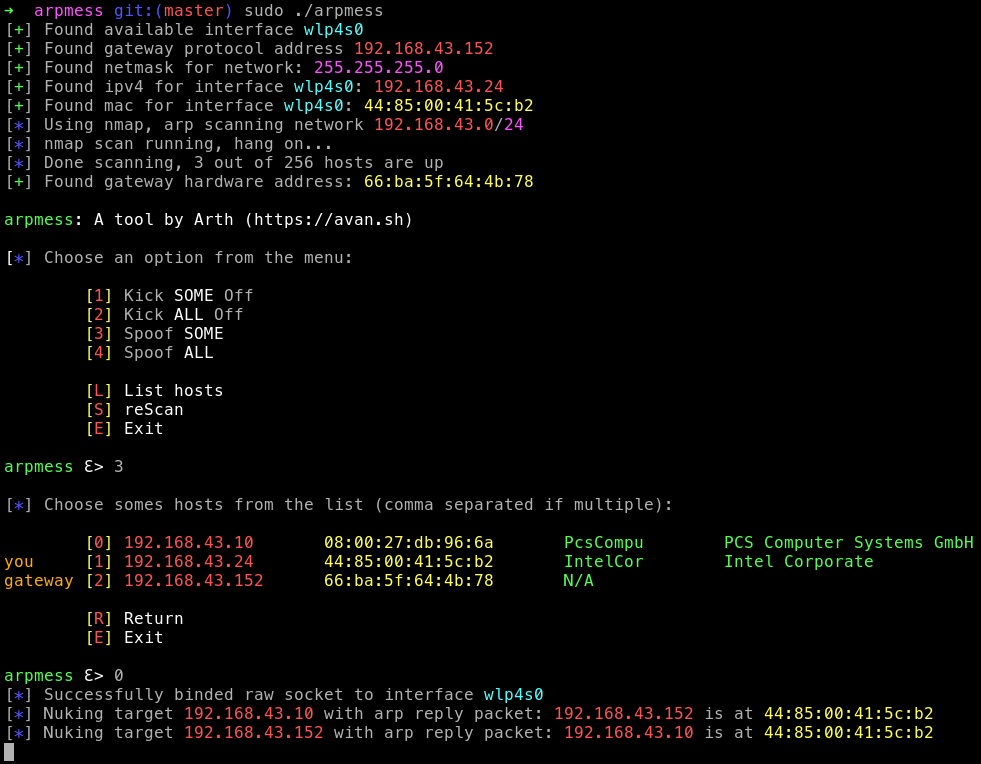
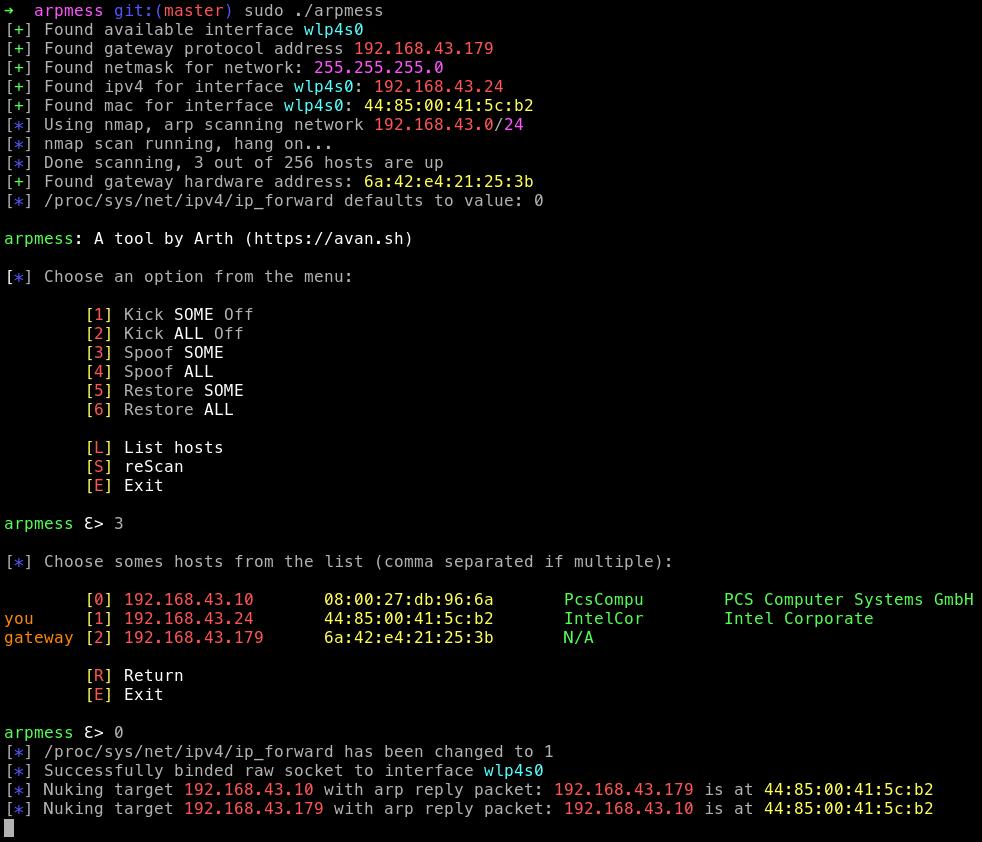
add info about program usage and change preview

diff --git a/README.md b/README.md
@@ -42,6 +42,9 @@ arpmess -- An arpspoofing software, all in one in C
   -?, --help                 Give this help list
       --usage                Give a short usage message
 ```
+- `Kick` is for kicking device device off your network (well in fact it doesn't, it just deny them internet access).  
+- `Spoof` is to intercept communication of an host in your network, open up wireshark and check the interface the programm binded it's socket to.  
+- `Restore` is the contrary of `Kick` it restore the gateway hardware adress to it's original state (in the selected host(s) arp table).  
 
 # Example
 ![example usage](/img/example.png)
@@ -49,6 +52,5 @@ arpmess -- An arpspoofing software, all in one in C
 Please open an issue if you have any problem.  
 
 # TODO
-- on warning debug message change prompt color to orange and - to ~
-- restore mode to restore arp table initial state after attack
+- on warning debug message change prompt color to orange and - to ~ (already done to a lot)
 - idk give me some ideas
